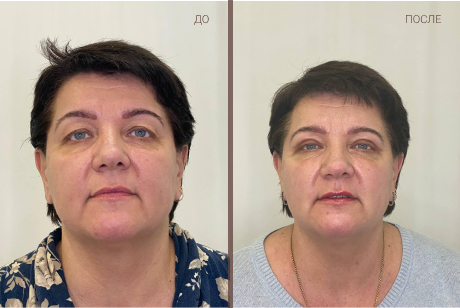
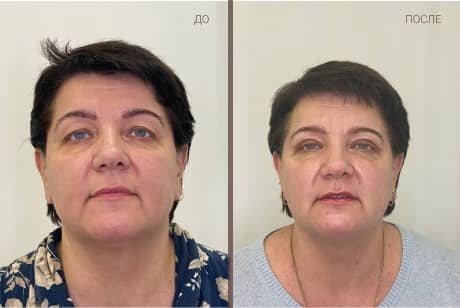
сжал изображения

diff --git a/index.html b/index.html
@@ -842,7 +842,7 @@
     </footer>
 
 
-    <div class="overlay overlay--open">
+    <div class="overlay">
         <div class="popup">
             <h1 class="popup__title">Ваша заявка отправлена</h1>
             <p class="popup__text">Ожидайте, скоро с вами свяжутся</p>
